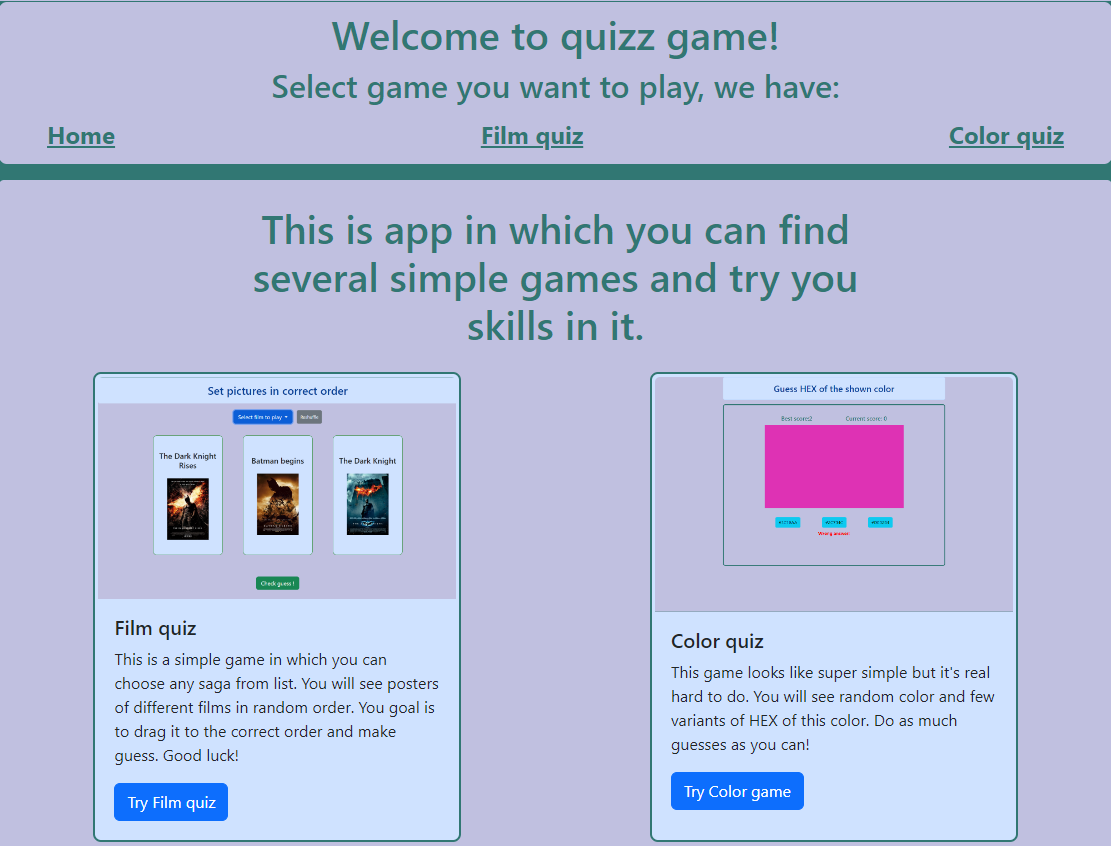
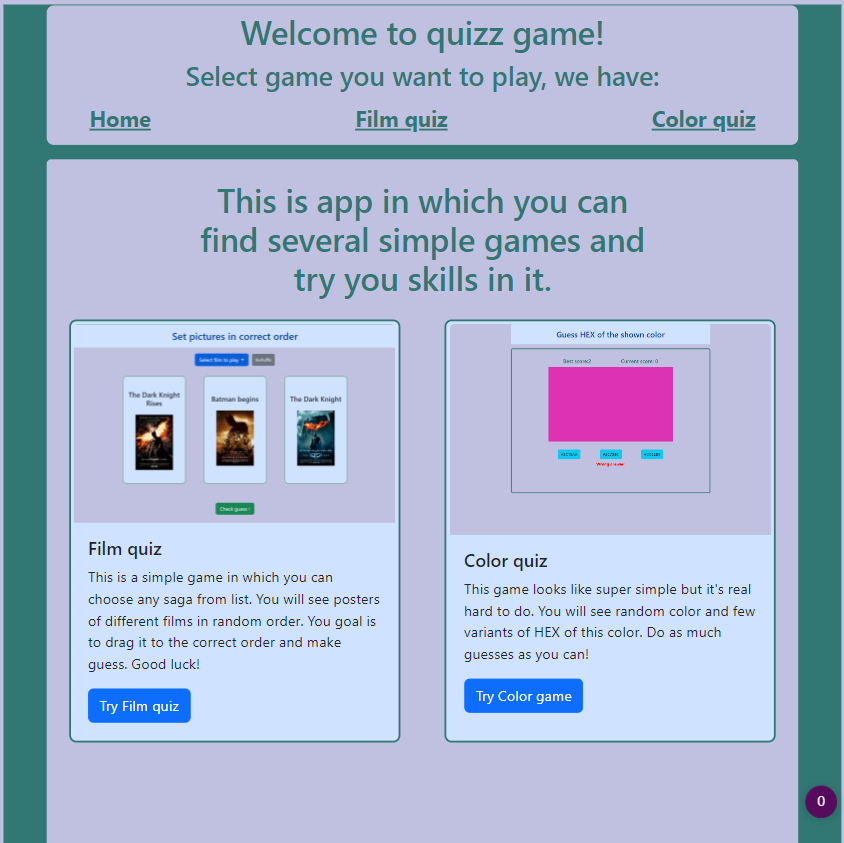
bug fix

diff --git a/src/components/ProjectsBlock/ProjectsBlock.module.scss b/src/components/ProjectsBlock/ProjectsBlock.module.scss
@@ -62,7 +62,7 @@
   display: flex;
   flex-flow: row wrap;
   justify-content: space-evenly;
-  max-width: 75%;
+  max-width: 70vw;
   margin: 0 auto;
   height: 100%;
   @media (max-width: 768px) {

diff --git a/src/components/ProjectsBlock/Card/Card.module.scss b/src/components/ProjectsBlock/Card/Card.module.scss
@@ -21,6 +21,8 @@
 
 .imgContainer {
   display: flex;
+  width: 322px;
+  height: 322px;
   justify-content: center;
   padding: 10px;
   border: 1px solid white;
